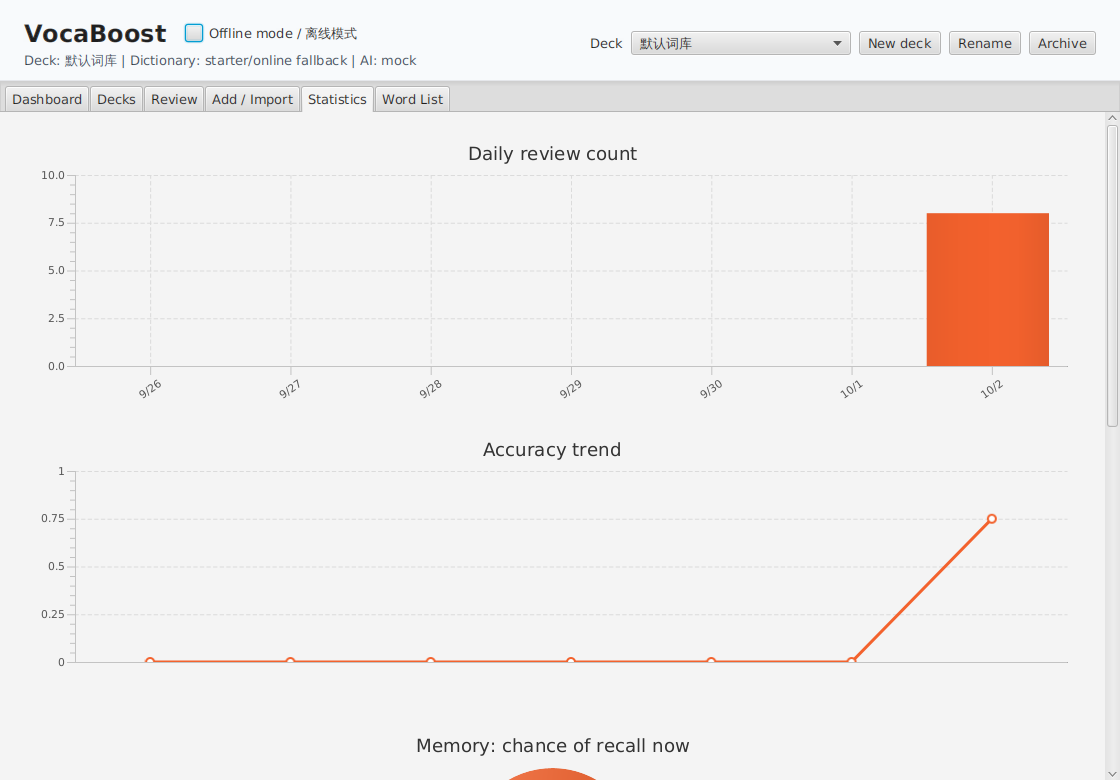
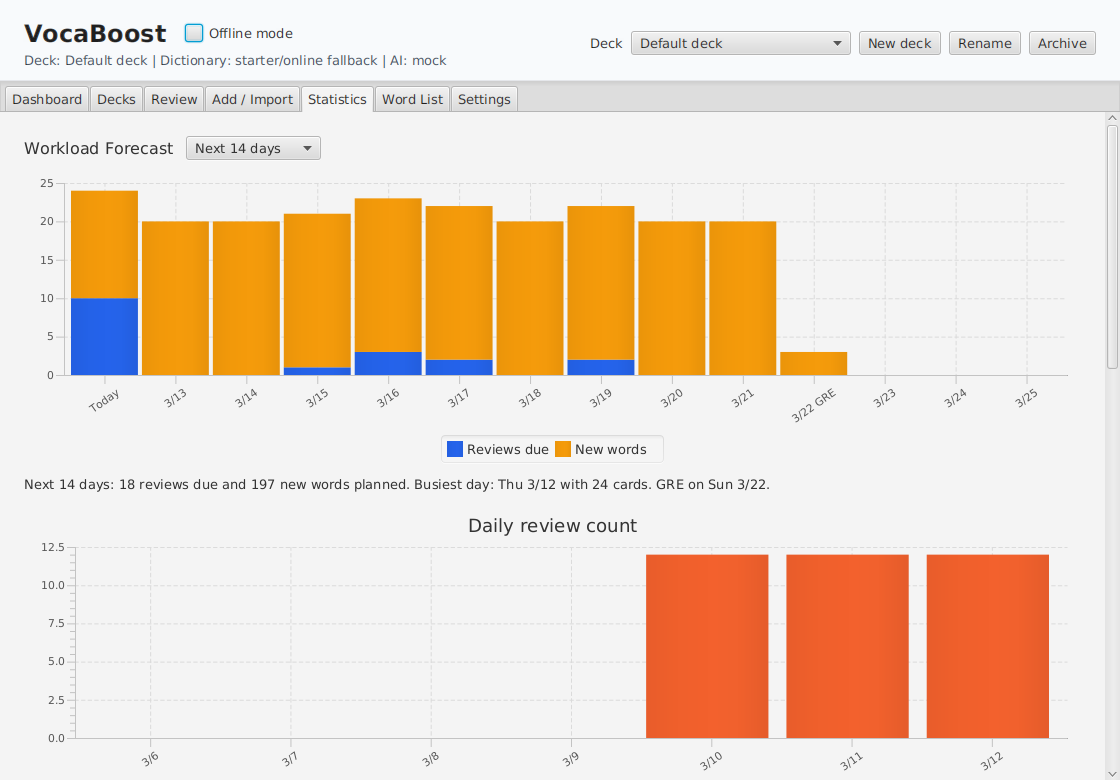
Take the docs screenshots in English and Simplified Chinese
DocsScreenshotsUiTest now reviews on three study days and sets an exam
date before it photographs the Review, Dashboard, Statistics, Word List
and Settings tabs, once on an English and once on a Chinese computer.
The Word List is sorted by interval and the Settings picture ends at a
section boundary, so no row is cut off.

Claude-Session: https://claude.ai/code/session_014yntQqbGimKytbPWHkoUFZ

diff --git a/src/test/java/com/vocabtrainer/ui/DocsScreenshotsUiTest.java b/src/test/java/com/vocabtrainer/ui/DocsScreenshotsUiTest.java
@@ -1,59 +1,165 @@
 package com.vocabtrainer.ui;
 
 import com.vocabtrainer.domain.WordCard;
+import javafx.scene.Node;
+import javafx.scene.control.DatePicker;
+import javafx.scene.control.Separator;
+import javafx.scene.control.TableColumn;
+import javafx.scene.layout.VBox;
 import org.junit.jupiter.api.Tag;
 import org.junit.jupiter.api.Test;
 
+import javax.imageio.ImageIO;
+import java.awt.image.BufferedImage;
 import java.io.IOException;
 import java.nio.file.Files;
 import java.nio.file.Path;
 import java.nio.file.StandardCopyOption;
+import java.sql.SQLException;
+import java.time.Duration;
+import java.time.LocalDate;
+import java.util.List;
+import java.util.Locale;
+import java.util.function.IntSupplier;
 
 import static org.junit.jupiter.api.Assertions.assertTrue;
 
 /**
- * Takes the screenshots in docs/screenshots from the real window after a short review session on
- * the starter words. With -Pui-tests they land in target/ui-snapshots, which keeps this tour working;
- * to update the docs, run it with the screenshots profile:
- * {@code xvfb-run -a -s "-screen 0 1400x900x24" ./mvnw test -Pscreenshots}.
+ * Takes the screenshots in docs/screenshots from the real window, in English and in Simplified
+ * Chinese, after three study days of reviews on the starter words and with an exam date set. With
+ * -Pui-tests they land in target/ui-snapshots, which keeps this tour working; to update the docs, run
+ * it with the screenshots profile: {@code xvfb-run -a -s "-screen 0 1400x900x24" ./mvnw test -Pscreenshots}.
  */
 @Tag("ui")
 class DocsScreenshotsUiTest extends MainWindowUiTest {
     private static final Path OUTPUT = Path.of(System.getProperty("vocaboost.screenshots.dir", SNAPSHOT_DIR.toString()));
     /** Lets the window finish drawing (charts, progress bars) before a picture is taken. */
     private static final long SETTLE_MILLIS = 700;
+    private static final int STUDY_DAYS = 3;
+    private static final int CARDS_PER_DAY = 12;
+    private static final int DAYS_TO_EXAM = 10;
+    /** English, Chinese, Next review, Interval, ... */
+    private static final int INTERVAL_COLUMN = 3;
+    /** Study, offline mode and ECDICT come before the AI section, each followed by a separator. */
+    private static final int SEPARATORS_ABOVE_AI = 3;
+
+    @Override
+    Locale systemLocale() {
+        return testName().startsWith("takeTheChinese") ? Locale.SIMPLIFIED_CHINESE : super.systemLocale();
+    }
 
     @Test
     void takeTheDocsScreenshots() throws Exception {
+        takeScreenshots("");
+    }
+
+    @Test
+    void takeTheChineseDocsScreenshots() throws Exception {
+        takeScreenshots("zh-");
+    }
+
+    private void takeScreenshots(String prefix) throws Exception {
+        studyForDays();
+        setExamDate();
+
+        // The next card answered, with the feedback, the word's details and the rating buttons' intervals.
         selectTab("reviewTab");
-        click("startSessionButton");
-        // Mostly right answers, with a miss now and then.
-        for (int card = 1; card <= 8; card++) {
-            boolean right = card % 4 != 0;
-            review(right, right ? "rateGoodButton" : "rateAgainButton");
-        }
-        // The next card answered, with the feedback and the rating buttons showing.
         WordCard word = questionWord();
         type("answerField", correctAnswer(word));
         click("submitAnswerButton");
-        save("review.png");
+        save(prefix + "review.png");
 
         selectTab("dashboardTab");
-        save("dashboard.png");
+        save(prefix + "dashboard.png");
         selectTab("statisticsTab");
-        save("statistics.png");
+        save(prefix + "statistics.png");
         selectTab("wordListTab");
-        save("word-list.png");
+        showLongestIntervalsFirst();
+        save(prefix + "word-list.png");
+        selectTab("settingsTab");
+        save(prefix + "settings.png", this::settingsBottom);
+    }
+
+    /** A few sessions on consecutive study days: mostly right answers, with a miss now and then. */
+    private void studyForDays() throws SQLException {
+        for (int day = 1; day <= STUDY_DAYS; day++) {
+            if (day > 1) {
+                clock.advance(Duration.ofDays(1));
+            }
+            selectTab("reviewTab");
+            click("startSessionButton");
+            for (int card = 1; card <= CARDS_PER_DAY; card++) {
+                boolean right = card % 4 != 0;
+                review(right, right ? "rateGoodButton" : "rateAgainButton");
+            }
+        }
+    }
+
+    /** Every deck's exam, a few days ahead, through the Dashboard's form. */
+    private void setExamDate() {
+        selectTab("dashboardTab");
+        LocalDate exam = services.reviewScheduler().studyDay().of(clock.now()).plusDays(DAYS_TO_EXAM);
+        dialogs.submitForm(form -> datePicker(form).getEditor().setText(exam.toString()));
+        click("editExamButton");
+    }
+
+    /** Sorts the Word List by interval, longest first, so the reviewed words are on top, and selects the first. */
+    private void showLongestIntervalsFirst() {
+        Fx.run(() -> {
+            var table = this.<WordCard>table("wordTable");
+            TableColumn<WordCard, ?> interval = table.getColumns().get(INTERVAL_COLUMN);
+            interval.setSortType(TableColumn.SortType.DESCENDING);
+            table.getSortOrder().setAll(List.of(interval));
+            table.getSelectionModel().select(0);
+            table.scrollTo(0);
+        });
+    }
+
+    private static DatePicker datePicker(Node form) {
+        Node node = form.lookup("#examDatePicker");
+        if (!(node instanceof DatePicker picker)) {
+            throw new AssertionError("No date picker in the exam form: " + node);
+        }
+        return picker;
+    }
+
+    /**
+     * Where the Settings screenshot ends: just below the separator above the AI section, so that no
+     * section is cut off by the bottom of the window.
+     */
+    private int settingsBottom() {
+        return Fx.call(() -> {
+            Node separator = find("settingsContent", VBox.class).getChildren().stream()
+                .filter(Separator.class::isInstance)
+                .skip(SEPARATORS_ABOVE_AI - 1)
+                .findFirst()
+                .orElseThrow(() -> new AssertionError("The Settings tab has fewer sections"));
+            return (int) Math.ceil(separator.localToScene(separator.getBoundsInLocal()).getMaxY()) + 6;
+        });
     }
 
     private void save(String fileName) throws IOException, InterruptedException {
+        save(fileName, () -> Integer.MAX_VALUE);
+    }
+
+    /**
+     * Saves a snapshot of the window once it has settled, cut off at the height that
+     * {@code bottomOfImage} gives then when the window is taller.
+     */
+    private void save(String fileName, IntSupplier bottomOfImage) throws IOException, InterruptedException {
         waitForBackgroundTasks();
         Thread.sleep(SETTLE_MILLIS);
         Fx.flush();
+        int bottom = bottomOfImage.getAsInt();
         Path snapshot = snapshot(fileName.replace(".png", ""));
         Files.createDirectories(OUTPUT);
         Path target = OUTPUT.resolve(fileName);
-        Files.copy(snapshot, target, StandardCopyOption.REPLACE_EXISTING);
+        BufferedImage image = ImageIO.read(snapshot.toFile());
+        if (bottom < image.getHeight()) {
+            ImageIO.write(image.getSubimage(0, 0, image.getWidth(), bottom), "png", target.toFile());
+        } else {
+            Files.copy(snapshot, target, StandardCopyOption.REPLACE_EXISTING);
+        }
         assertTrue(Files.size(target) > 0, target.toString());
     }
 }
